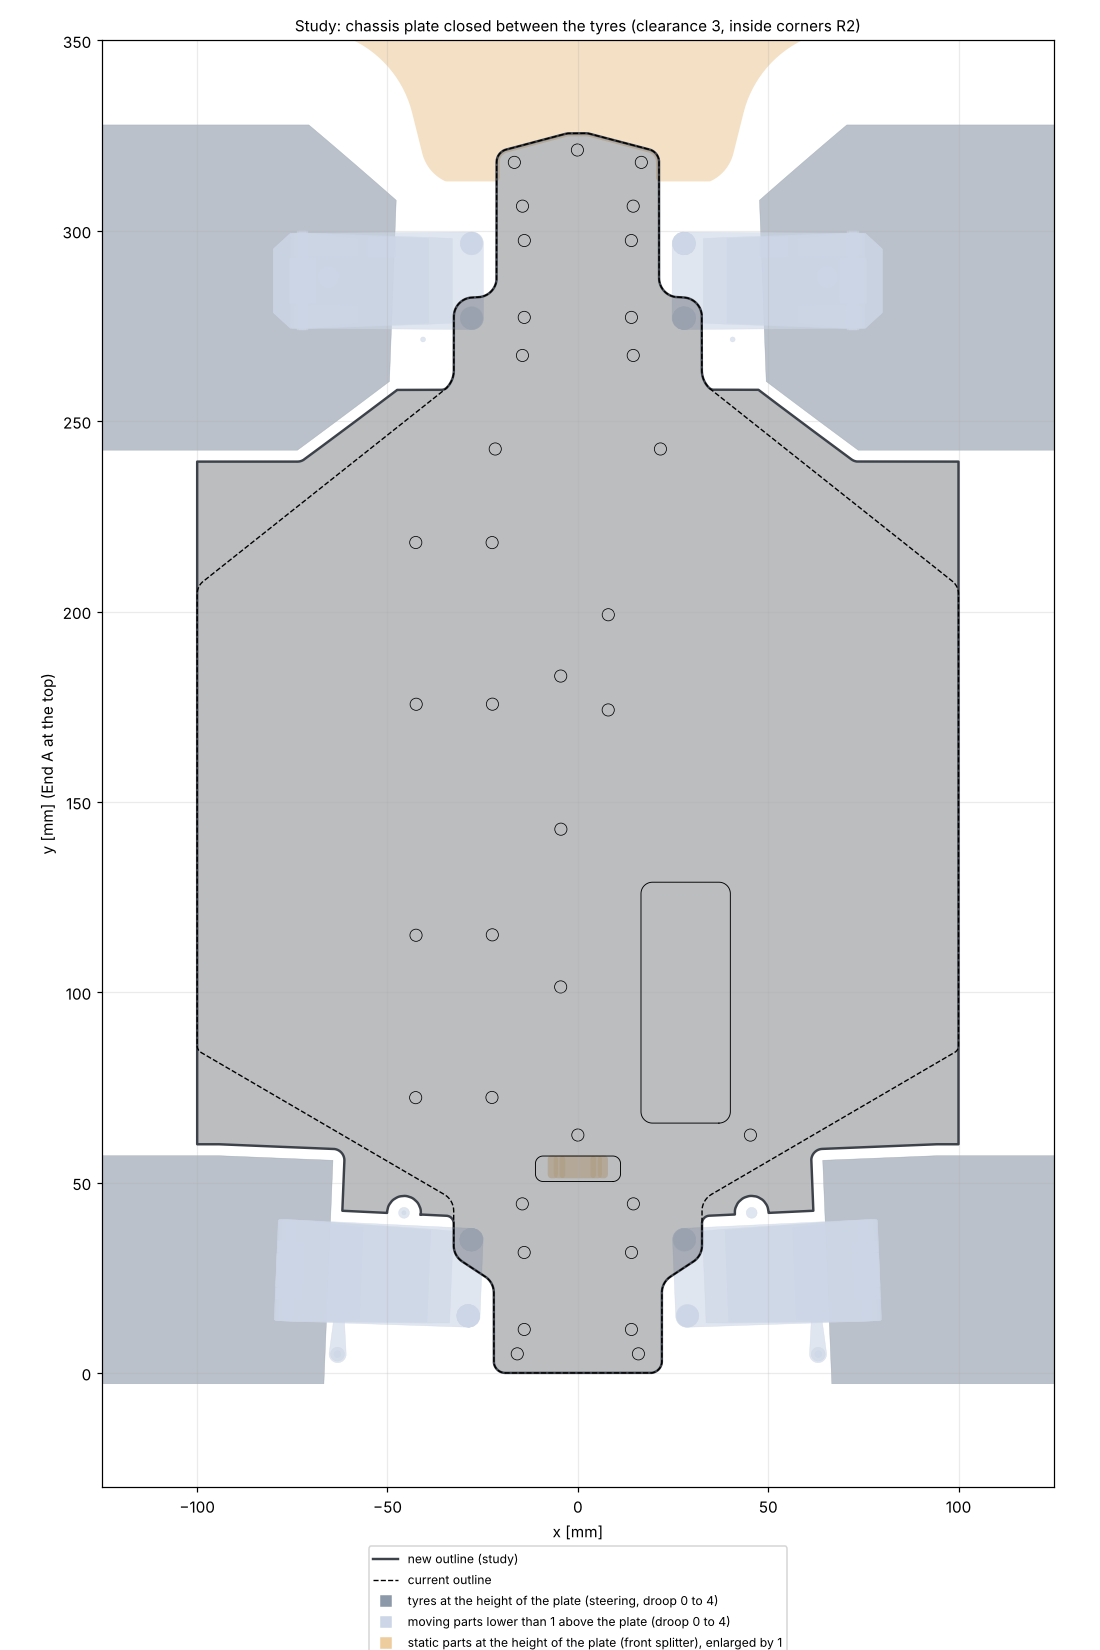
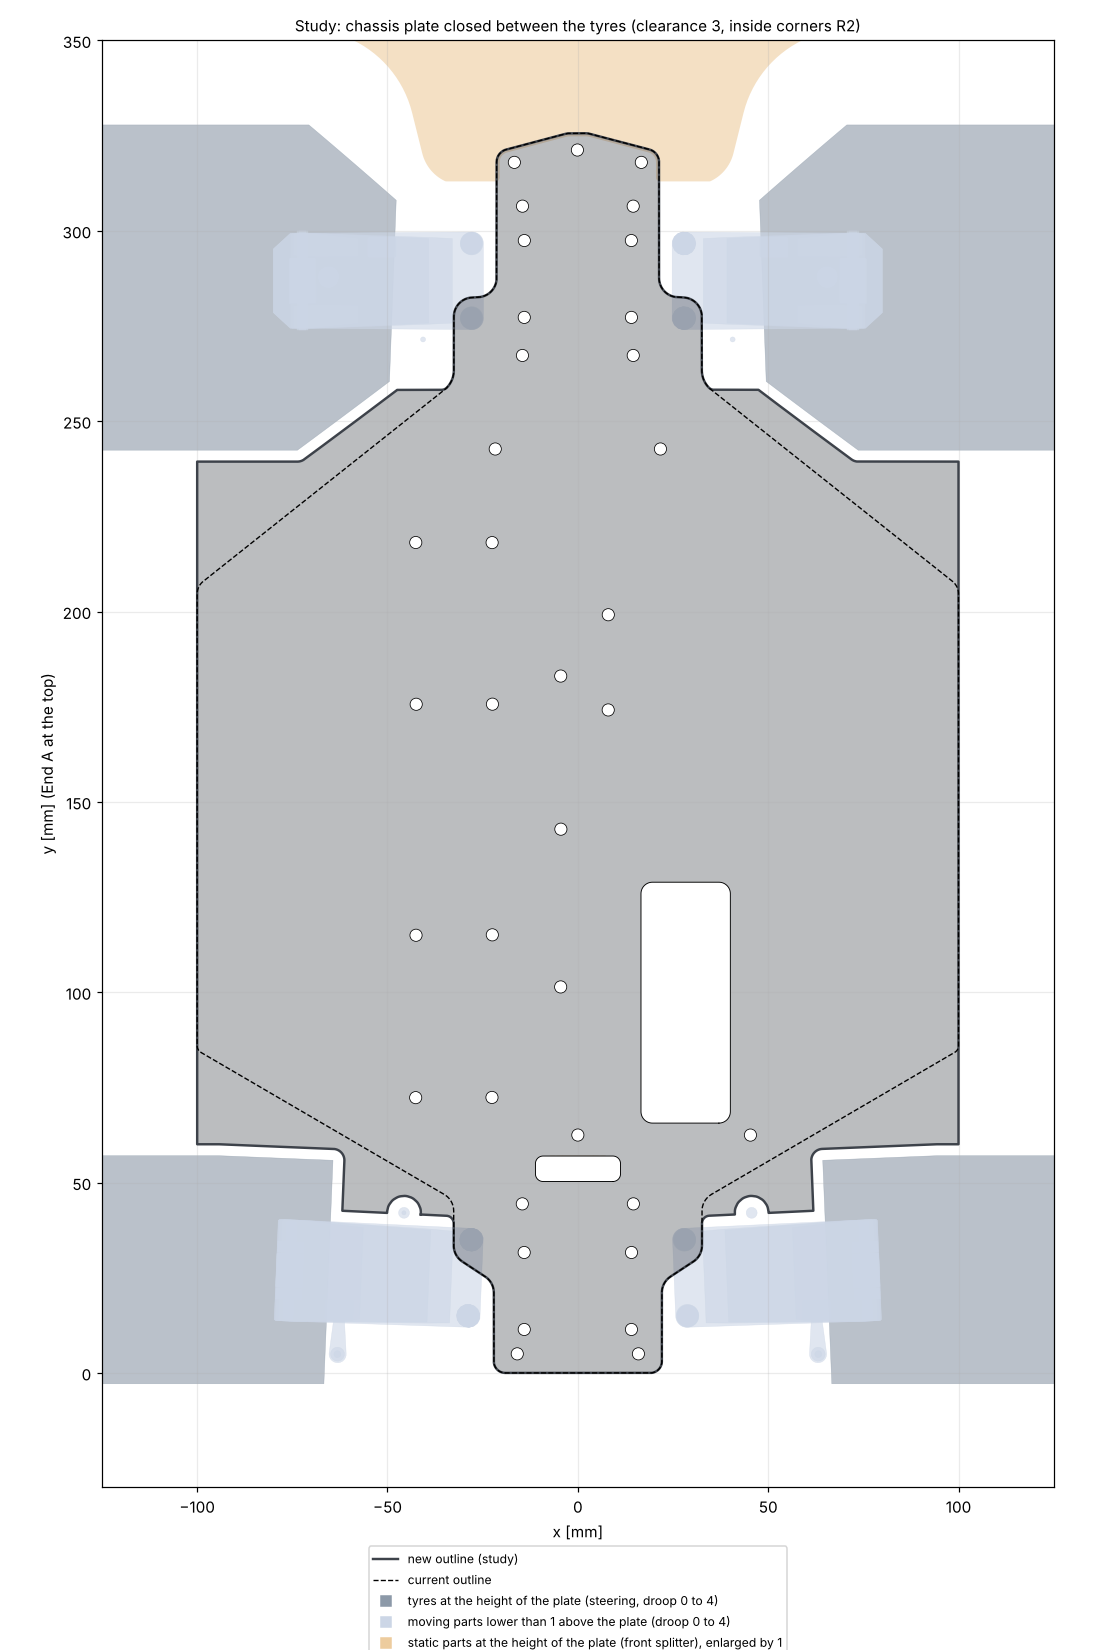
Study chassis plate closed: motor window open, top view shows it
- The motor window and the slot of the spur gear stay open (owner);
  checked in the STEP and STL file of the study
- Top view: windows and holes drawn open (before filled with the plate)

Claude-Session: https://claude.ai/code/session_012MJxxF9M8vwMjWFzyuC18V

diff --git a/cad/studies/chassis_plate_closed/generate_chassis_plate_closed_study.py b/cad/studies/chassis_plate_closed/generate_chassis_plate_closed_study.py
@@ -420,11 +420,12 @@ def top_view(geo, face, zones, path, outline=None):
     ax.plot(new[:, 0], new[:, 1], color=P.rgb("plate"), lw=1.6, label="new outline (study)")
     o = prim_points(geo["outline"])
     ax.plot(o[:, 0], o[:, 1], "k--", lw=0.9, label="current outline")
-    for c in geo["cutouts"].values():
+    for c in geo["cutouts"].values():                 # windows open (motor window, slot of the spur gear)
         q = prim_points(c)
-        ax.plot(q[:, 0], q[:, 1], "k", lw=0.6)
+        ax.fill(q[:, 0], q[:, 1], color="white", lw=0, zorder=3)
+        ax.plot(q[:, 0], q[:, 1], "k", lw=0.6, zorder=4)
     for h in geo["holes"]:
-        ax.add_patch(plt.Circle((h["x"], h["y"]), geo["hole_d"] / 2, fill=False, lw=0.5))
+        ax.add_patch(plt.Circle((h["x"], h["y"]), geo["hole_d"] / 2, fc="white", ec="k", lw=0.5, zorder=4))
     ax.plot([], [], "s", color=(0.55, 0.6, 0.66), label=f"tyres at the height of the plate (steering, droop 0 to {DROOP:g})")
     ax.plot([], [], "s", color=(0.80, 0.84, 0.90), label=f"moving parts lower than {Z_CLEAR:g} above the plate (droop 0 to {DROOP:g})")
     ax.plot([], [], "s", color=(0.93, 0.80, 0.62), label=f"static parts at the height of the plate (front splitter), enlarged by {STATIC_CLEAR:g}")

diff --git a/cad/studies/chassis_plate_closed/readme.md b/cad/studies/chassis_plate_closed/readme.md
@@ -13,7 +13,7 @@
 Owner (2026-11-21): the open space between the tyres is closed with the speedrun chassis plate, without touching the tyres or getting too close to them; no new material in front of the front tyres and behind the rear tyres, no spike beside the droop bosses of the front wishbones. The study is not part of the build: the speedrun chassis plate (wide, longer motor window) and the assembly are not changed.
 
 ## Design
-The study keeps the speedrun chassis plate (holes, windows, countersinks, thickness 2.0 mm, aluminium 6082) and only adds material to its outline.
+The study keeps the speedrun chassis plate (holes, windows, countersinks, thickness 2.0 mm, aluminium 6082) and only adds material to its outline. The motor window (23.5 x 63.3 mm, longer window for the 3660 motor) and the slot of the spur gear stay open (owner), as all holes; checked in the STEP and the STL file.
 
 * New material only between the rear axle and the front end of the diagonal edges of the current plate (y = 258.24 mm, where the current outline turns into the narrow front end) (owner); there the full width of the current plate (x = ±99.99 mm). In front of it and behind the rear axle the outline is the current one.
 * Keep-out zones, each enlarged by the clearance:
